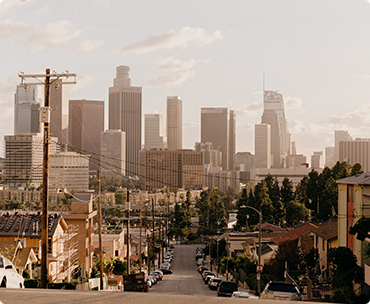
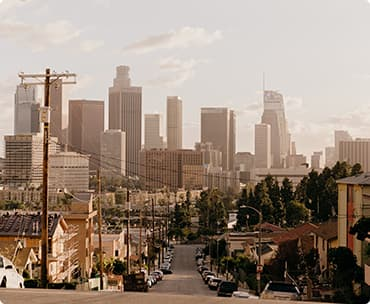
simplebox full

diff --git a/study.html b/study.html
@@ -65,32 +65,50 @@
       </div>
       <div class="city-wrapper">
         <p class="city-head">boston</p>
-        <img class="city-img" src="img/study_boston.jpg" width="370" height="304" alt="boston">
+<!--         <img class="city-img" src="img/study_boston.jpg" width="370" height="304" alt="boston"> -->
+        <a class="city-img-outerbox" rel="simplebox" href="img/study_boston_full.jpg">
+          <img class="city-img-box" src="img/study_boston.jpg" width="370" height="304">
+        </a>
         <button class="button city-button city-button-b" type="button">поступить</button>
       </div>
       <div class="city-wrapper">
         <p class="city-head">los angeles</p>
-        <img class="city-img" src="img/study_los_angeles.jpg" width="370" height="304" alt="los angeles">
+<!--         <img class="city-img" src="img/study_los_angeles.jpg" width="370" height="304" alt="los angeles"> -->
+        <a class="city-img-outerbox" rel="simplebox" href="img/study_los_angeles_full.jpg">
+          <img class="city-img-box" src="img/study_los_angeles.jpg" width="370" height="304">
+        </a>
         <button class="button city-button city-button-l" type="button">поступить</button>
       </div>
       <div class="city-wrapper">
         <p class="city-head">santa barbara</p>
-        <img class="city-img" src="img/study_santa_barbara.jpg" width="370" height="304" alt="santa barbara">
+<!--         <img class="city-img" src="img/study_santa_barbara.jpg" width="370" height="304" alt="santa barbara"> -->
+        <a class="city-img-outerbox" rel="simplebox" href="img/study_santa_barbara_full.jpg">
+          <img class="city-img-box" src="img/study_santa_barbara.jpg" width="370" height="304">
+        </a>
         <button class="button city-button city-button-s" type="button">поступить</button>
       </div>
       <div class="city-wrapper">
         <p class="city-head">New York</p>
-        <img class="city-img" src="img/study_new_york.jpg" width="370" height="304" alt="New York">
+<!--         <img class="city-img" src="img/study_new_york.jpg" width="370" height="304" alt="New York"> -->
+        <a class="city-img-outerbox" rel="simplebox" href="img/study_new_york_full.jpg">
+          <img class="city-img-box" src="img/study_new_york.jpg" width="370" height="304">
+        </a>
         <button class="button city-button city-button-n" type="button">поступить</button>
       </div>
       <div class="city-wrapper">
         <p class="city-head">Orlando</p>
-        <img class="city-img" src="img/study_orlando.jpg" width="370" height="304" alt="Orlando">
+<!--         <img class="city-img" src="img/study_orlando.jpg" width="370" height="304" alt="Orlando"> -->
+        <a class="city-img-outerbox" rel="simplebox" href="img/study_orlando_full.jpg">
+          <img class="city-img-box" src="img/study_orlando.jpg" width="370" height="304">
+        </a>
         <button class="button city-button city-button-o" type="button">поступить</button>
       </div>
       <div class="city-wrapper">
         <p class="city-head">Washington</p>
-        <img class="city-img" src="img/study_washington.jpg" width="370" height="304" alt="Washington">
+<!--         <img class="city-img" src="img/study_washington.jpg" width="370" height="304" alt="Washington"> -->
+        <a class="city-img-outerbox" rel="simplebox" href="img/study_washington_full.jpg">
+          <img class="city-img-box" src="img/study_washington.jpg" width="370" height="304">
+        </a>
         <button class="button city-button city-button-w" type="button">поступить</button>
       </div>
     </div>
